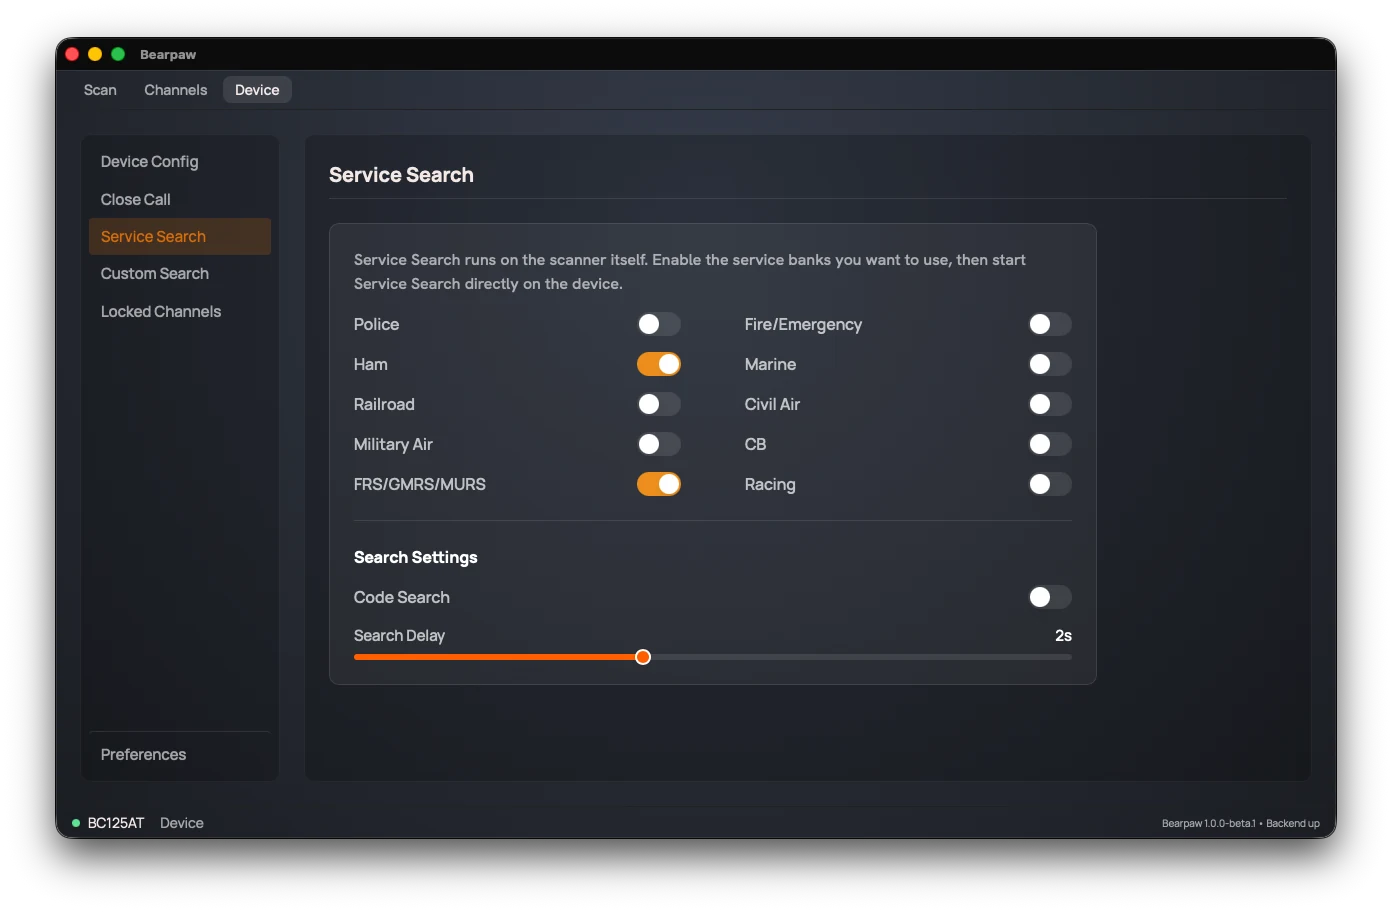
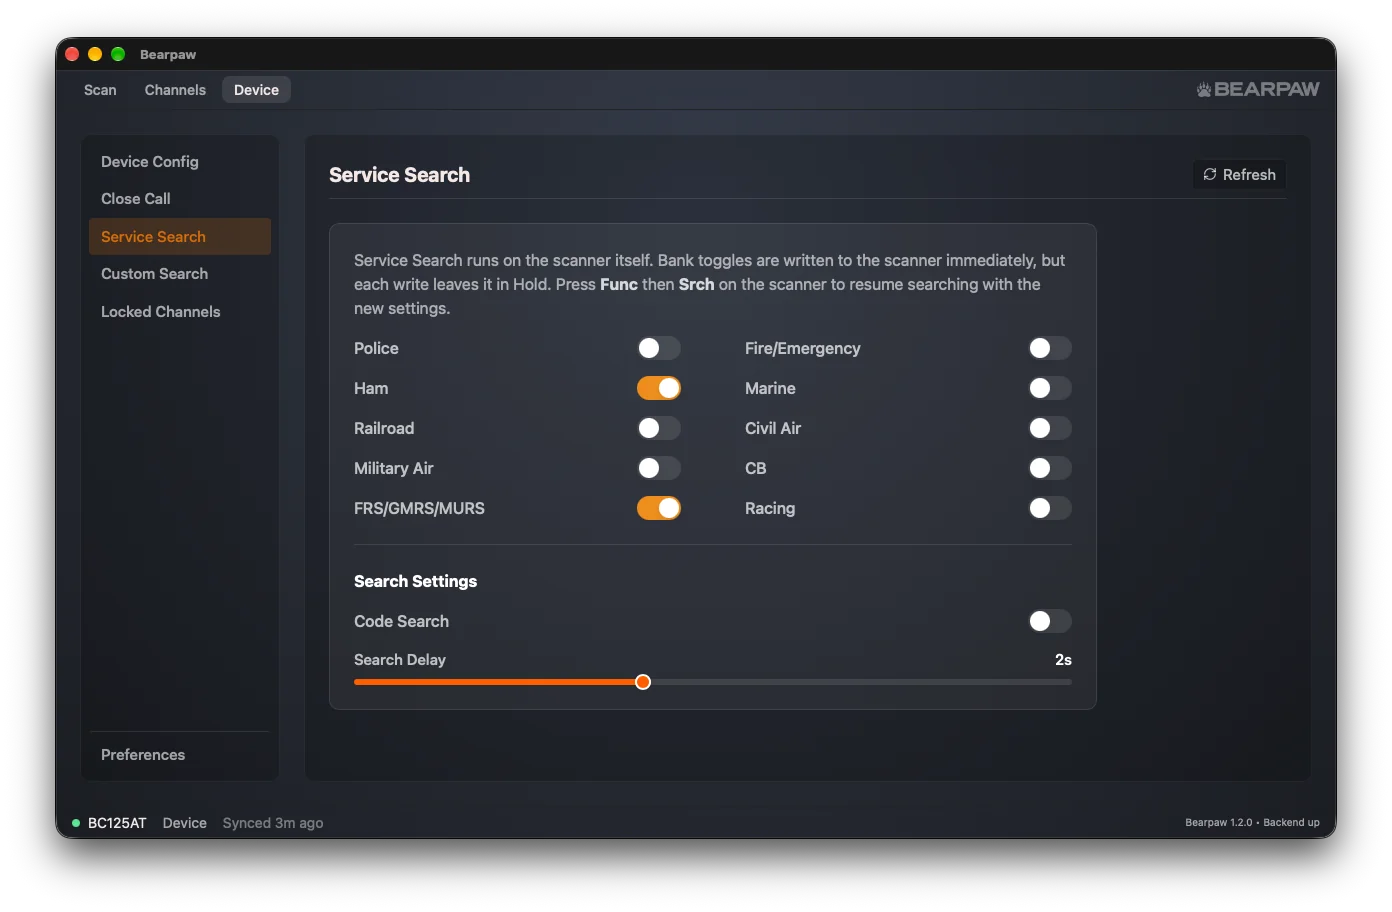
chore(release): cut 1.2.0 (#806)
* chore(release): cut 1.2.0

Bumps the six version sources to 1.2.0 and promotes [Unreleased] to
[1.2.0] with a one-line summary, which becomes the top of the GitHub
release notes. Bundles the CLAUDE.md sync-time correction measured
during the release smoke test: 4.9 s for a BC125AT and a first BC75XLT
figure of 4.1 s, where the section said the BC75XLT was unmeasured.

* docs(guide): retake the screenshots for 1.2.0

Seven guide images dated from a 1.0 beta and showed removed UI: row
checkboxes, the VOL popup, and a Device Information card with no
scanner list. The Preferences shot showed v1.1.2. All eight are
retaken from this branch, so every footer reads 1.2.0, the #763 way:
a 1280x800 window capture with shadow (1392x912), WebP quality 85.
Alt text updated to match each new image.

Fixes #801

---------

diff --git a/site/docs/device-config.html b/site/docs/device-config.html
@@ -77,7 +77,7 @@
         <figure class="docs-figure">
           <img
             src="assets/device-config.webp"
-            alt="The Device Config section with the Priority Mode dropdown open, listing Off, On, Plus, and DND. Around it: Audio & Power (Volume, Squelch, Battery Saver), Display & System (Backlight, Contrast, Key Beep), a Weather Alert Priority toggle, and a read-only Device Information card."
+            alt="The Device Config section scrolled down: Audio &amp; Power (Volume, Squelch, Battery Saver), Display &amp; System (Backlight, Contrast, Key Beep), Scanning Logic (Priority Mode, Weather Alert Priority), and Device Information listing two known scanners, a connected BC125AT with a Rename button and a BC75XLT last seen 3 hours ago with Forget and Rename, above the model, port, status, firmware, and memory."
           />
           <figcaption>Device Config — the scanner's core settings.</figcaption>
         </figure>

diff --git a/site/docs/getting-started.html b/site/docs/getting-started.html
@@ -187,7 +187,7 @@
         <figure class="docs-figure">
           <img
             src="assets/scan-dashboard.webp"
-            alt="Bearpaw's Scan tab during a hit: the big amber display reads 'WOF Security' with frequency 463.425 NFM CH 84, the Recent Hits list on the right, and the Busiest Channels and Activity Heatmap dashboards below."
+            alt="Bearpaw's Scan tab during a hit: the big amber display reads 'Ararat UHF' at 145.130 NFM on channel 2, with VOL and SQL sliders along its top and named bank buttons along its bottom. The Recent Hits list is on the right, and the Busiest Channels and Activity Heatmap dashboards are below."
           />
           <figcaption>
             The Scan tab during a hit — big display, Recent Hits, and the

diff --git a/site/docs/service-search.html b/site/docs/service-search.html
@@ -83,7 +83,7 @@
         <figure class="docs-figure">
           <img
             src="assets/device-service-search.webp"
-            alt="The Service Search section: ten service toggles (Police, Fire/Emergency, Ham, Marine, Railroad, Civil Air, Military Air, CB, FRS/GMRS/MURS, Racing) and Search Settings for Code Search and Search Delay."
+            alt="The Service Search section: a note that each change leaves the scanner in Hold until you press Func then Srch, ten service toggles (Police, Fire/Emergency, Ham, Marine, Railroad, Civil Air, Military Air, CB, FRS/GMRS/MURS, Racing), and Search Settings for Code Search and Search Delay."
           />
           <figcaption>
             Service Search — factory band presets, run on the radio.

diff --git a/site/docs/channels.html b/site/docs/channels.html
@@ -209,7 +209,7 @@
         <figure class="docs-figure">
           <img
             src="assets/channels-tab.webp"
-            alt="The Channels tab showing Bank 2: a bank sidebar on the left, and an editable grid of channels with CH, FREQ, TAG, MODE, TONE, DLY, L/O, and PRIO columns, plus Import, Export, and Upload Changes controls."
+            alt="The Channels tab showing bank 2, named CB &amp; MURS, with a pencil to rename it: named banks in the sidebar, a toolbar with search, the sync time, Refresh, Clear Selected, Import, and Export, and a grid of channels with CH, FREQ, TAG, MODE, TONE, DLY, L/O, and PRIO columns."
           />
           <figcaption>
             The Channels tab — the per-bank editable grid, with Import, Export,

diff --git a/site/docs/close-call.html b/site/docs/close-call.html
@@ -78,7 +78,7 @@
         <figure class="docs-figure">
           <img
             src="assets/device-close-call.webp"
-            alt="The Close Call section with the Mode dropdown open, listing Off, CC DND, CC Priority, and CC Only. Behind it: a Lockout Hits While Scanning toggle, Alert Beep and Alert Light toggles, and Enabled Bands switches for VHF Low, Air, VHF High, UHF, and 800 MHz."
+            alt="The Close Call section with Mode set to Off, which greys out the rest: a Lockout Hits While Scanning toggle, Alert Beep and Alert Light toggles, and Enabled Bands switches for VHF Low, Air, VHF High, UHF, and 800 MHz."
           />
           <figcaption>Close Call — nearby-strong-signal detection.</figcaption>
         </figure>

diff --git a/site/docs/locked-channels.html b/site/docs/locked-channels.html
@@ -69,7 +69,7 @@
         <figure class="docs-figure">
           <img
             src="assets/device-locked-channels.webp"
-            alt="The Locked Channels section: a summary showing 36 locked channels, a search box and bank filter, and a table of locked channels each with a per-row Unlock button."
+            alt="The Locked Channels section: a summary showing 41 locked channels, a search box and bank filter, a table of locked channels each with a per-row Unlock button, and an empty Avoided Frequencies list below."
           />
           <figcaption>Locked Channels — review and clear the skip list.</figcaption>
         </figure>

diff --git a/site/docs/custom-search.html b/site/docs/custom-search.html
@@ -69,7 +69,7 @@
         <figure class="docs-figure">
           <img
             src="assets/device-custom-search.webp"
-            alt="The Custom Search section: a table of ten ranges (R-1 to R-10), each with an Active switch and Lower and Upper frequency values in MHz."
+            alt="The Custom Search section, 3 of 10 active: a note that each change leaves the scanner in Hold until you press Srch, and a table of ten ranges (R-1 to R-10), each with an Active switch and Lower and Upper frequencies in MHz."
           />
           <figcaption>Custom Search — your own frequency ranges.</figcaption>
         </figure>

diff --git a/site/docs/scan.html b/site/docs/scan.html
@@ -73,7 +73,7 @@
         <figure class="docs-figure">
           <img
             src="assets/scan-dashboard.webp"
-            alt="The Scan tab: a large amber display showing a hit, the Recent Hits list, and the Busiest Channels bar chart and Activity Heatmap below."
+            alt="The Scan tab: a large amber display showing a hit, with VOL and SQL sliders along the top and named bank buttons along the bottom, the Recent Hits list, and the Busiest Channels bar chart and Activity Heatmap below."
           />
           <figcaption>The Scan tab, mid-hit.</figcaption>
         </figure>

diff --git a/CLAUDE.md b/CLAUDE.md
@@ -489,9 +489,12 @@ redundant write costs a couple of milliseconds.
 
 Reading all 500 channels takes **~5 s** on a BC125AT over the macOS direct-USB path
 (measured three times, 2026-08-30, POST to `in_progress:false`). This section long said
-30–45 s; that figure predates the current transport and is wrong by roughly 8x. The
-BC75XLT is unmeasured — 300 channels at 57600 through a CP210x is a different transport,
-so do not assume it matches.
+30–45 s; that figure predates the current transport and is wrong by roughly 8x. A
+2026-10-15 run measured 4.9 s, consistent with that.
+
+Reading all 300 channels takes **~4 s** on a BC75XLT at 57600 through its CP210x serial
+bridge on macOS (4.1 s, measured once, 2026-10-15, same method). One sample: re-measure
+before relying on it for anything tighter than "a few seconds".
 
 Why it is not instant:
 - Each channel is one `CIN,N` round-trip inside the PRG bracket.

diff --git a/CHANGELOG.md b/CHANGELOG.md
@@ -6,6 +6,12 @@ follows [Semantic Versioning](https://semver.org/spec/v2.0.0.html).
 
 ## [Unreleased]
 
+## [1.2.0] — 2026-10-15
+
+Edit channels like a spreadsheet, swap scanners without restarting, and name
+your banks and scanners. This release also stops a partly failed reorder from
+losing a channel.
+
 ### Added
 
 - **Swap scanners without restarting.** Unplug one scanner and plug in
